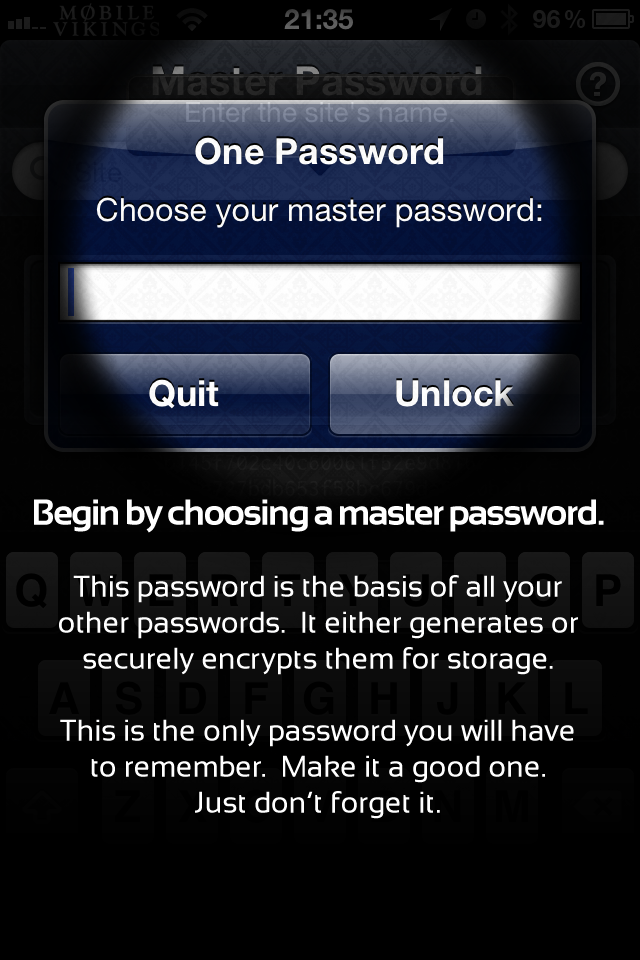
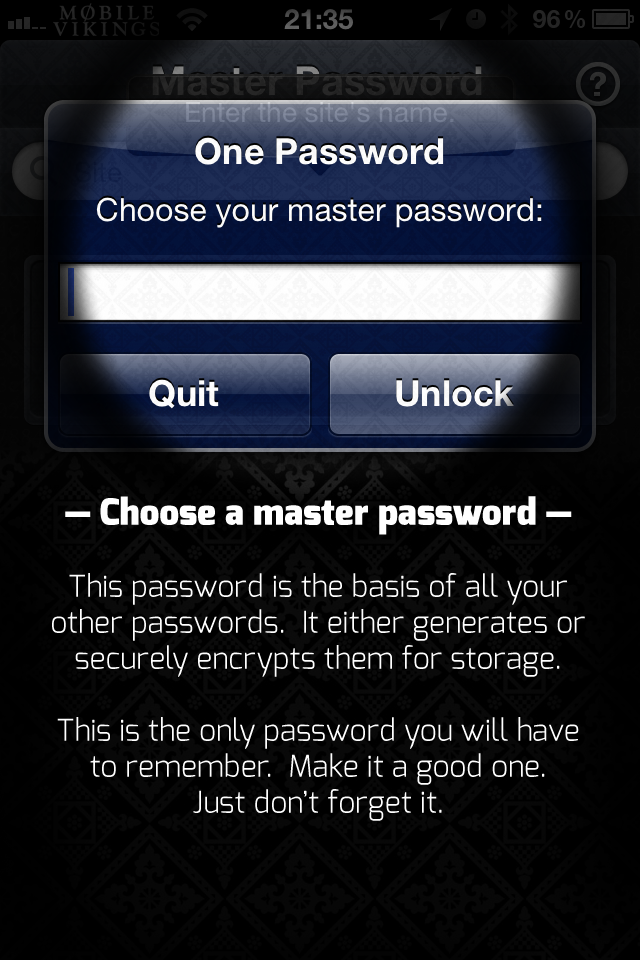
Show guide only first time + improved guide docs.

Changed region(s): [[0.0938, 0.5938, 0.9062, 0.7188], [0.0938, 0.75, 0.9062, 0.875], [0.0312, 0.5, 0.9375, 0.5625]]

diff --git a/OnePassword/OPMainViewController.m b/OnePassword/OPMainViewController.m
@@ -76,7 +76,7 @@
 }
 
 - (void)viewWillDisappear:(BOOL)animated {
-
+    
     [super viewWillDisappear:animated];
     
     self.searchTipContainer.hidden = YES;
@@ -85,10 +85,11 @@
 - (void)viewDidLoad {
     
     // Put the search tip on the window so it's above the nav bar.
-//    [self.searchTipContainer removeFromSuperview];
-//    [[UIApplication sharedApplication].keyWindow addSubview:self.searchTipContainer];
-//    self.searchTipContainer.frame = CGRectSetY(self.searchTipContainer.frame, self.searchTipContainer.frame.origin.y
-//                                               + self.navigationController.navigationBar.frame.size.height /* Nav */ + 20 /* Status */);
+    CGRect newFrame = [self.navigationController.navigationBar convertRect:self.searchTipContainer.frame
+                                                                  fromView:self.searchTipContainer.superview];
+    [self.searchTipContainer removeFromSuperview];
+    [self.navigationController.navigationBar addSubview:self.searchTipContainer];
+    self.searchTipContainer.frame = newFrame;
     self.searchTipContainer.hidden = YES;
     
     // Because IB's edit button doesn't auto-toggle self.editable like editButtonItem does.

diff --git a/OnePassword/OPConfig.m b/OnePassword/OPConfig.m
@@ -10,7 +10,7 @@
 
 @implementation OPConfig
 
-@dynamic dataStoreError, storeKeyPhrase, rememberKeyPhrase, forgetKeyPhrase, helpHidden;
+@dynamic dataStoreError, storeKeyPhrase, rememberKeyPhrase, forgetKeyPhrase, helpHidden, showQuickstart;
 
 
 - (id)init {
@@ -24,6 +24,7 @@
                                      [NSNumber numberWithBool:YES],                                 NSStringFromSelector(@selector(rememberKeyPhrase)),
                                      [NSNumber numberWithBool:NO],                                  NSStringFromSelector(@selector(forgetKeyPhrase)),
                                      [NSNumber numberWithBool:NO],                                  NSStringFromSelector(@selector(helpHidden)),
+                                     [NSNumber numberWithBool:YES],                                  NSStringFromSelector(@selector(showQuickstart)),
                                      nil]];
     
     return self;

diff --git a/OnePassword/OPConfig.h b/OnePassword/OPConfig.h
@@ -13,6 +13,7 @@
 @property (nonatomic, retain) NSNumber *rememberKeyPhrase;
 @property (nonatomic, retain) NSNumber *forgetKeyPhrase;
 @property (nonatomic, retain) NSNumber *helpHidden;
+@property (nonatomic, retain) NSNumber *showQuickstart;
 
 + (OPConfig *)get;
 

diff --git a/OnePassword/OPAppDelegate.m b/OnePassword/OPAppDelegate.m
@@ -121,7 +121,7 @@
 }
 - (void)applicationDidBecomeActive:(UIApplication *)application {
     
-    if ([[OPConfig get].firstRun boolValue])
+    if ([[OPConfig get].showQuickstart boolValue])
         [self showGuide];
     else
         [self loadKeyPhrase];

diff --git a/OnePassword/OPGuideViewController.m b/OnePassword/OPGuideViewController.m
@@ -28,6 +28,7 @@
     
     [super viewWillDisappear:animated];
     
+    [OPConfig get].showQuickstart = [NSNumber numberWithBool:NO];
     [[OPAppDelegate get] loadKeyPhrase];
 }
 
